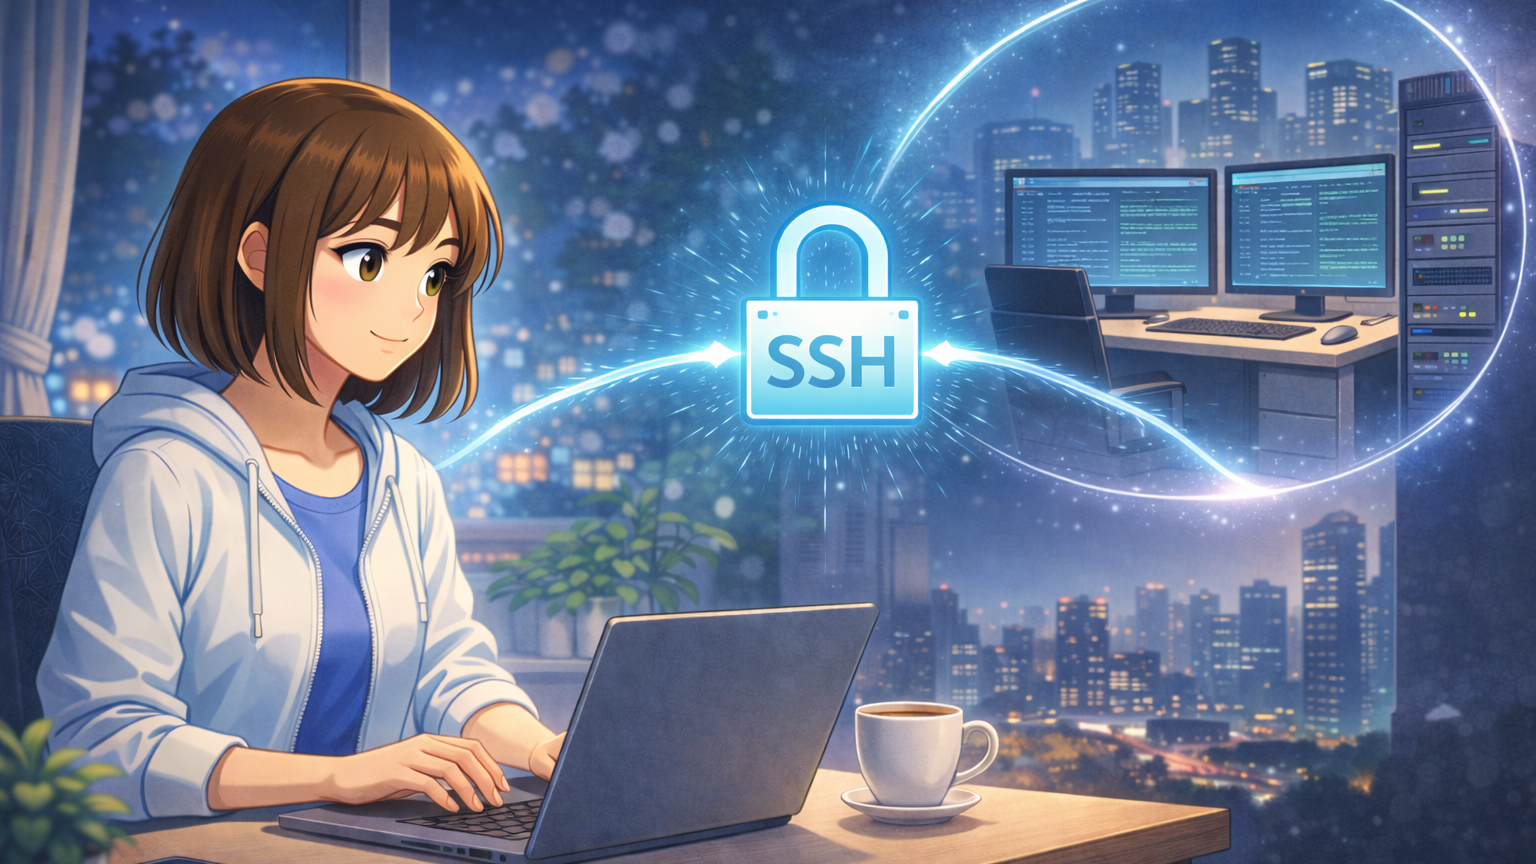
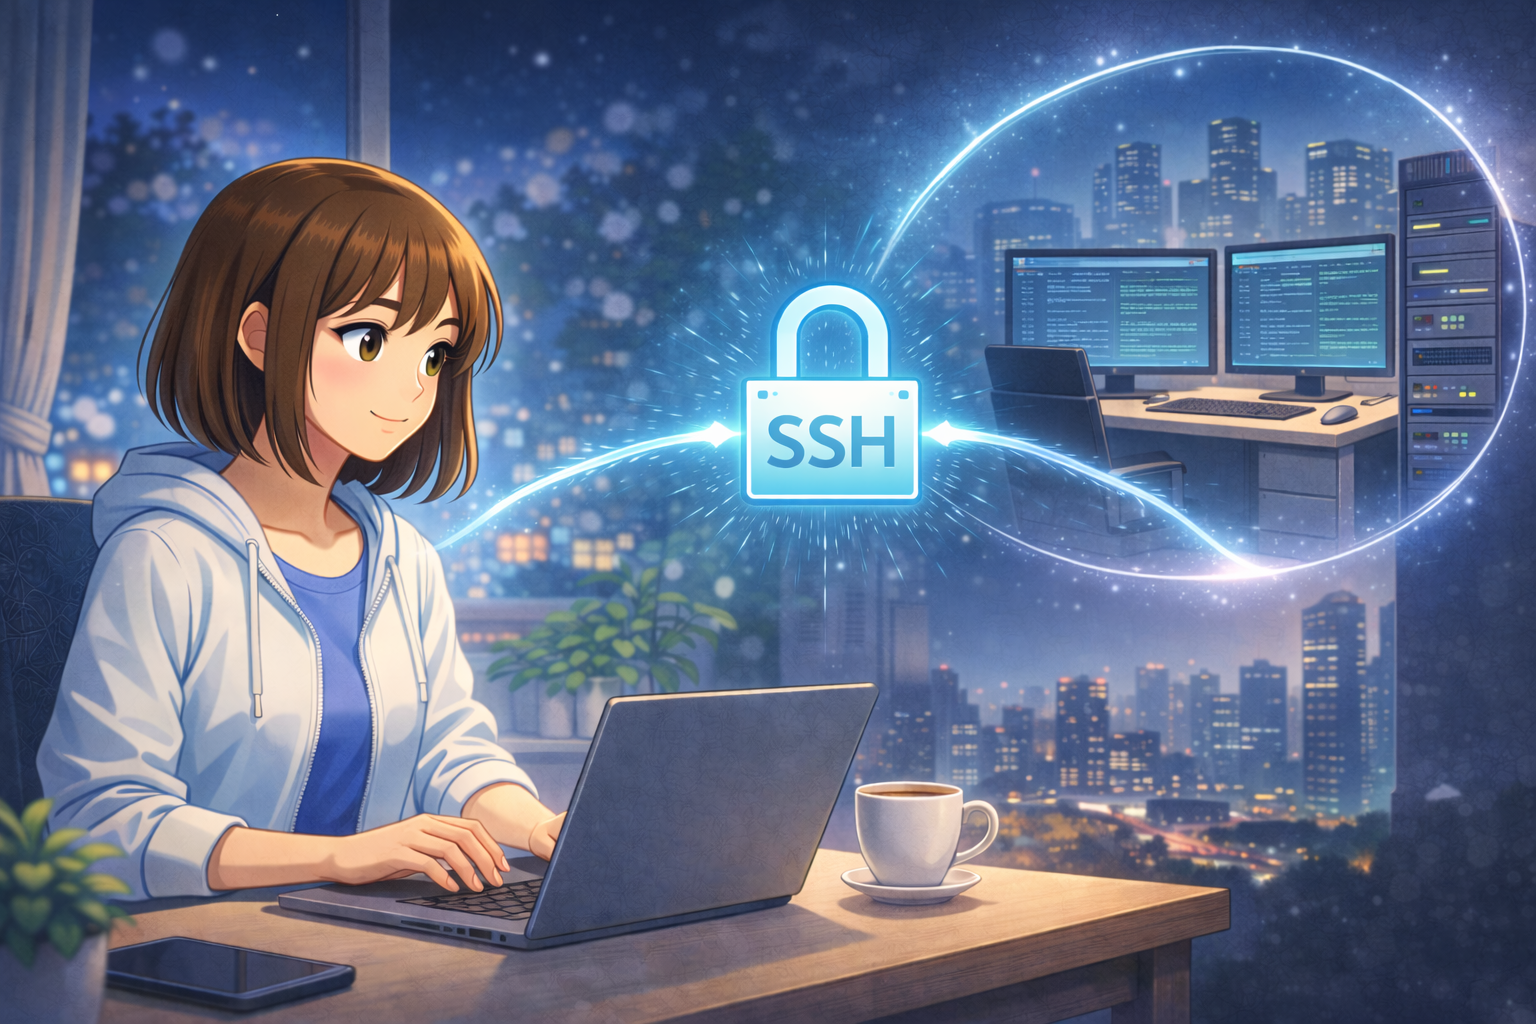
y

diff --git a/app/terms/ssh/page.tsx b/app/terms/ssh/page.tsx
@@ -16,7 +16,7 @@ export const metadata: Metadata = {
     description: '会社のパソコンから会社のサーバーに安全に入る仕組みがSSH。遠隔ログインの基本を初心者向けに解説します。',
     type: 'article',
     images: [
-      { url: '/images/ssh.png', width: 1536, height: 864, alt: 'SSH - 手元のPCから遠くのサーバーに安全に接続する仕組み' },
+      { url: '/images/ssh.png', width: 1536, height: 1024, alt: 'SSH - 手元のPCから遠くのサーバーに安全に接続する仕組み' },
     ],
   },
   twitter: {
@@ -77,14 +77,14 @@ export default function SSHPage() {
               borderRadius: '12px',
               overflow: 'hidden',
               boxShadow: '0 4px 12px rgba(0,0,0,0.1)',
-              aspectRatio: '16 / 9',
+              aspectRatio: '3 / 2',
             }}
           >
             <Image
               src="/images/ssh.png"
               alt="SSH - 手元のPCから遠くのサーバーに安全に接続する仕組み"
               width={1536}
-              height={864}
+              height={1024}
               priority
               style={{
                 width: '100%',

diff --git a/app/terms/page.tsx b/app/terms/page.tsx
@@ -1,4 +1,5 @@
 import Link from 'next/link'
+import Image from 'next/image'
 import fs from 'fs'
 import path from 'path'
 import type { Metadata } from 'next'
@@ -36,6 +37,28 @@ export default function TermsListPage() {
       <SiteHeader showNav={true} />
 
       <header>
+        <div
+          style={{
+            width: '100%',
+            maxWidth: '280px',
+            margin: '0 auto 1.5rem',
+            borderRadius: '12px',
+            overflow: 'hidden',
+            boxShadow: '0 4px 12px rgba(0,0,0,0.08)',
+          }}
+        >
+          <Image
+            src="/images/terms/it-terms-hero.png"
+            alt="IT用語を学ぶ"
+            width={1024}
+            height={1024}
+            style={{
+              width: '100%',
+              height: 'auto',
+              display: 'block',
+            }}
+          />
+        </div>
         <h1>用語一覧</h1>
         <p>IT用語を一覧から探したり、検索したりできます。</p>
       </header>

diff --git a/app/terms/foolproof/page.tsx b/app/terms/foolproof/page.tsx
@@ -57,7 +57,7 @@ export default function FoolProofPage() {
           >
             <Image
               src="/images/terms/foolproof-hero.png"
-              alt="フールプルーフ - ミスを防ぐ設計思想をわかりやすく学ぶ"
+              alt="フールプルーフ - 確認ダイアログなどミスを防ぐ設計をわかりやすく学ぶ"
               width={1536}
               height={1024}
               priority
@@ -180,7 +180,7 @@ if (confirmed) {
         </section>
 
         <section>
-          <h2>3. 身近なフールプルーフの例（Web → 日常へ）</h2>
+          <h2>3. 身近なフールプルーフの例</h2>
           <p>
             Webも日常も、考え方は同じです。
           </p>
